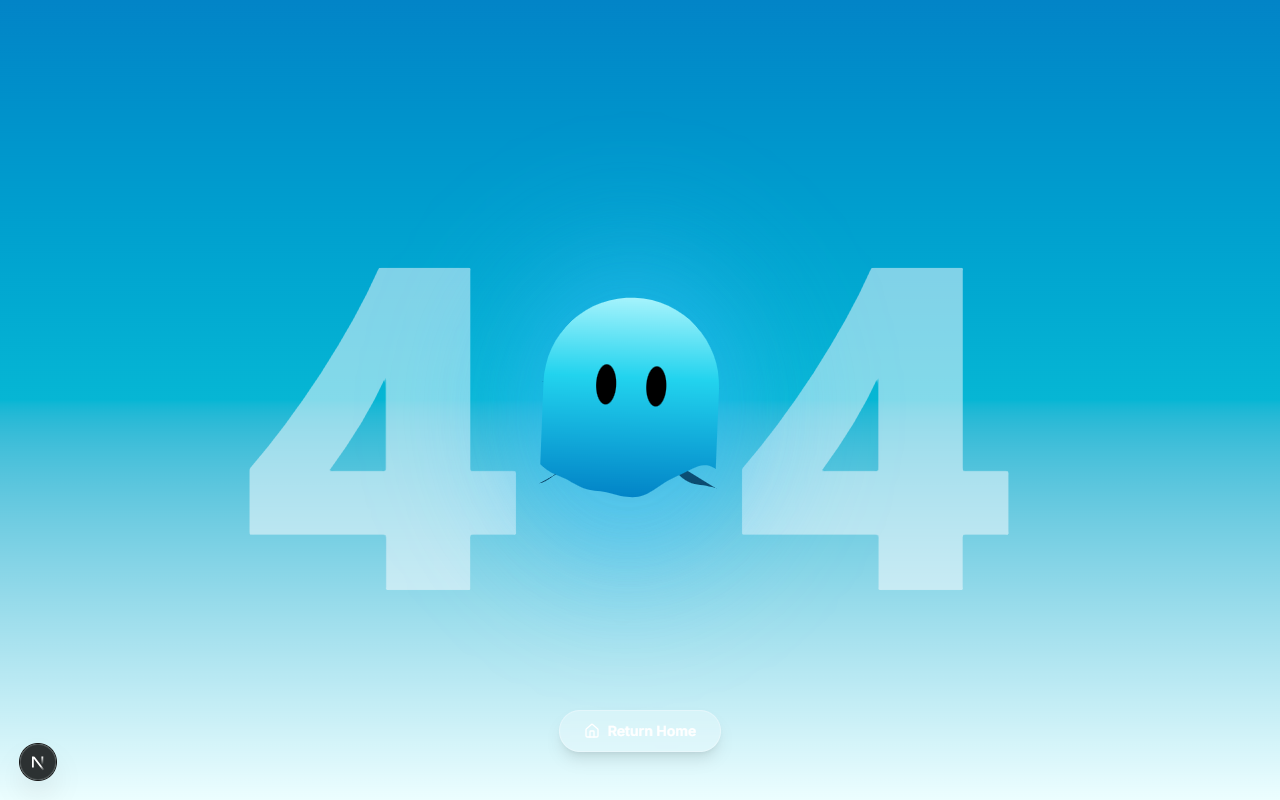
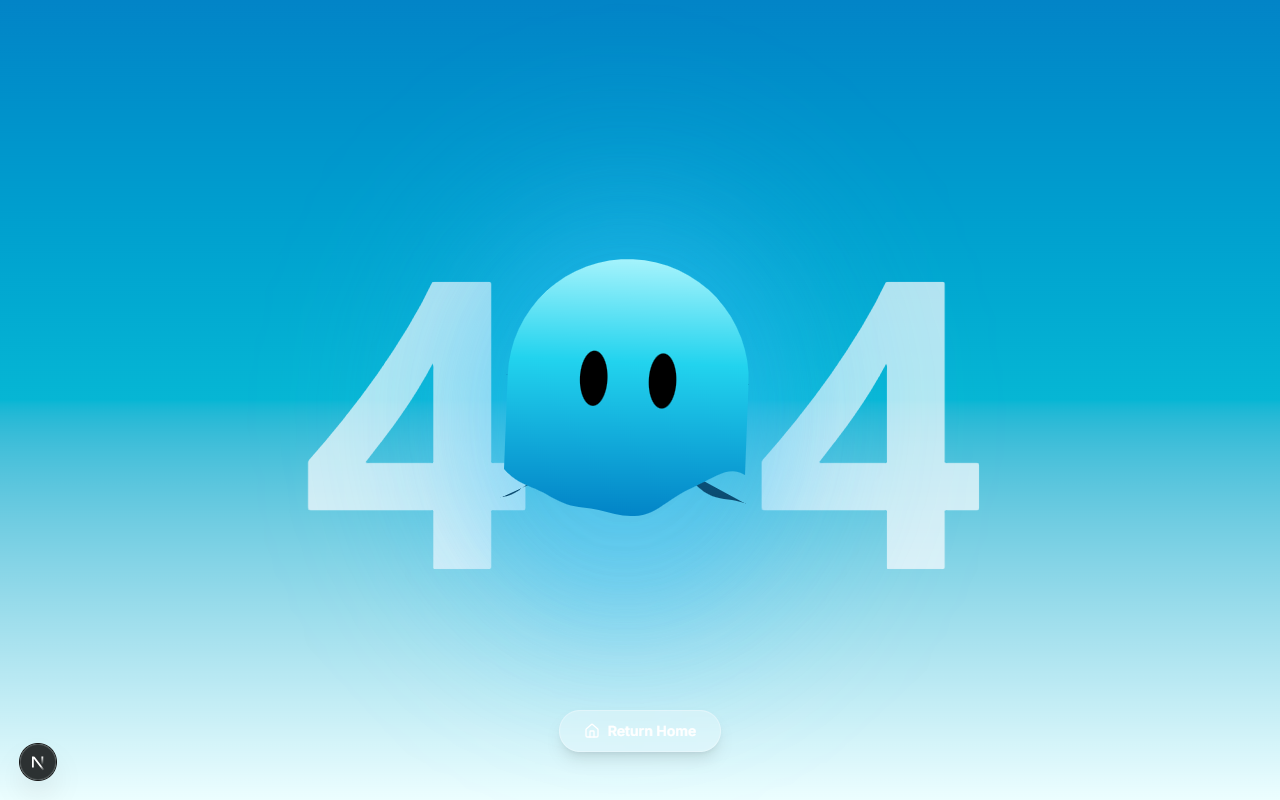
fix(404): fine-tune ghost scale to balanced 2.05x proportion

Changed region(s): [[0.1875, 0.3125, 0.8125, 0.75]]

diff --git a/landing/src/app/not-found.tsx b/landing/src/app/not-found.tsx
@@ -10,41 +10,46 @@ export default function NotFound() {
     <main className="min-h-[100dvh] w-full bg-gradient-to-b from-[#0284c7] via-[#06b6d4] to-[#ecfeff] flex flex-col items-center justify-center relative overflow-hidden select-none">
       {/* ── Center Stage: 4 [Ghost] 4 ── */}
       <div className="relative flex items-center justify-center w-full max-w-5xl px-4 my-auto">
-        {/* Giant "4 4" Background Typography exactly like reference */}
-        <div className="absolute inset-0 flex items-center justify-center pointer-events-none select-none z-0">
-          <span className="text-[200px] sm:text-[300px] md:text-[400px] lg:text-[460px] font-black text-white/50 tracking-[0.35em] sm:tracking-[0.4em] md:tracking-[0.45em] leading-none font-sans translate-x-[0.18em] sm:translate-x-[0.2em]">
-            44
+        <div className="relative flex items-center justify-center select-none">
+          {/* Left "4" */}
+          <span className="text-[170px] sm:text-[260px] md:text-[340px] lg:text-[410px] font-bold text-white/70 select-none pointer-events-none leading-none -mr-6 sm:-mr-12 md:-mr-18 lg:-mr-24 z-0 font-sans tracking-tight">
+            4
           </span>
-        </div>
 
-        {/* Big Interactive Cyan Ghost Centered in Front */}
-        <div className="relative z-10 w-[240px] sm:w-[320px] md:w-[380px] h-[300px] sm:h-[380px] md:h-[440px] flex items-center justify-center cursor-pointer">
-          <InteractiveGhost
-            animationStyle="smooth"
-            mood="neutral"
-            colorTop="#a5f3fc"
-            colorMiddle="#22d3ee"
-            colorBottom="#0284c7"
-            colorBackTop="#0369a1"
-            colorBackBottom="#0c4a6e"
-            glowColor="#38bdf8"
-            characterScale={1.65}
-            bodyHeight={170}
-            floatingSpeed={1.1}
-            animatingSpeed={1}
-            interactiveEyes={true}
-            followGlobalMouse={true}
-            enableChat={true}
-            quotes={[
-              "Boo! 👻 Coordinates lost!",
-              "404: Even my sonar is puzzled!",
-              "You're off the nautical charts! 🌊",
-              "Did I scare you? Click me again!",
-              "Deep oceanic void ahead! Better turn back! 🧭",
-            ]}
-            chatBgColor="#ffffff"
-            chatTextColor="#0284c7"
-          />
+          {/* Interactive Cyan Ghost Centered in Front */}
+          <div className="relative z-10 w-[230px] sm:w-[310px] md:w-[370px] lg:w-[420px] h-[280px] sm:h-[360px] md:h-[420px] lg:h-[470px] flex items-center justify-center cursor-pointer">
+            <InteractiveGhost
+              animationStyle="smooth"
+              mood="neutral"
+              colorTop="#a5f3fc"
+              colorMiddle="#22d3ee"
+              colorBottom="#0284c7"
+              colorBackTop="#0369a1"
+              colorBackBottom="#0c4a6e"
+              glowColor="#38bdf8"
+              characterScale={2.05}
+              bodyHeight={160}
+              floatingSpeed={1.1}
+              animatingSpeed={1}
+              interactiveEyes={true}
+              followGlobalMouse={true}
+              enableChat={true}
+              quotes={[
+                "Boo! 👻 Coordinates lost!",
+                "404: Even my sonar is puzzled!",
+                "You're off the nautical charts! 🌊",
+                "Did I scare you? Click me again!",
+                "Deep oceanic void ahead! Better turn back! 🧭",
+              ]}
+              chatBgColor="#ffffff"
+              chatTextColor="#0284c7"
+            />
+          </div>
+
+          {/* Right "4" */}
+          <span className="text-[170px] sm:text-[260px] md:text-[340px] lg:text-[410px] font-bold text-white/70 select-none pointer-events-none leading-none -ml-6 sm:-ml-12 md:-ml-18 lg:-ml-24 z-0 font-sans tracking-tight">
+            4
+          </span>
         </div>
       </div>
 
